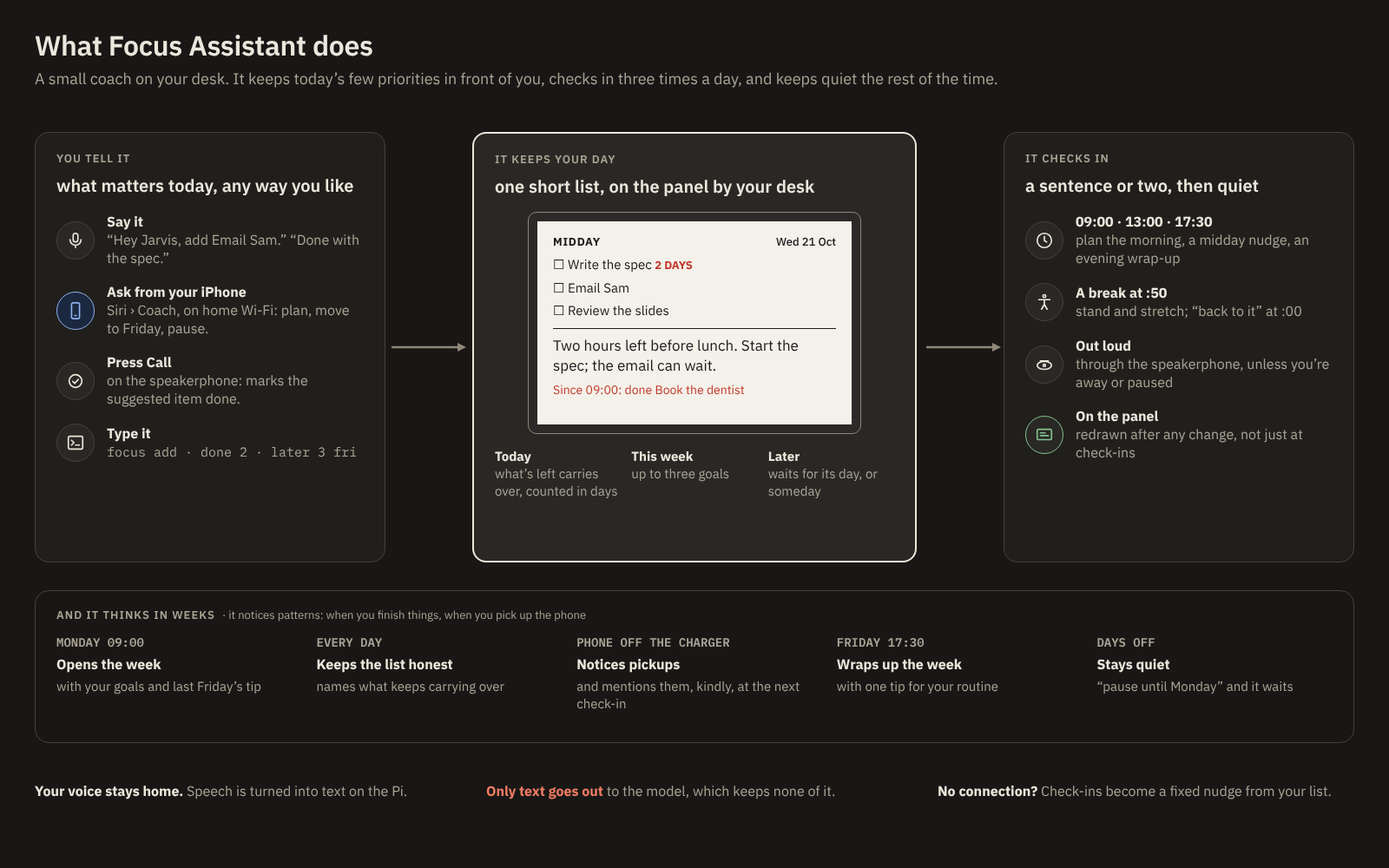
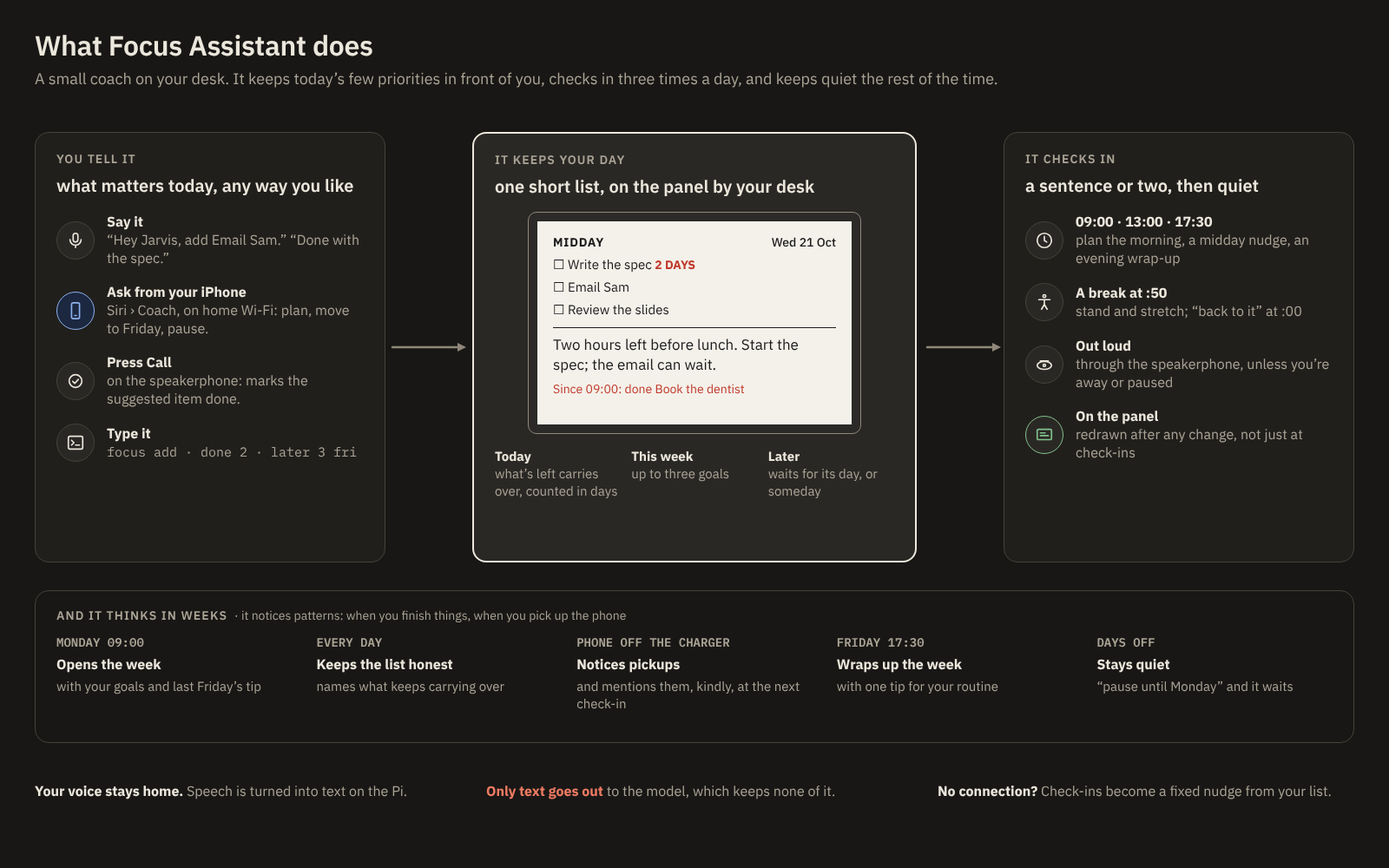
Raise the diagrams' smallest text to 14 px
Chips, captions and small labels were 12-13 px; all text is now at least
14 px. Chip letter-spacing is tighter so they keep their width.

Claude-Session: https://claude.ai/code/session_012JGky2b5gRaRkVCuL4X8Ex

diff --git a/docs/diagrams/workflow.html b/docs/diagrams/workflow.html
@@ -15,11 +15,11 @@ a{color:#1f4f9c}a:hover{color:#191815}
 @media (prefers-color-scheme: dark){.t-auto{--bg:#181715;--panel:#211f1c;--card:#2a2825;--ink:#ece7dc;--muted:#aba496;--line:#8f887b;--border:#46423b;--host:#ee7b63;--host-bg:#3a221c;--host-line:#e0634c;--phone:#8db2ec;--phone-bg:#1c2740;--chip:#ece7dc;--chip-ink:#181715;--focus:rgba(255,250,240,0.05);--nokey:#82c28d;--boundary:#d8b13c;--night:rgba(0,0,0,0.3)}}
 .mono{font-family:'IBM Plex Mono',ui-monospace,monospace}
 .s{color:var(--muted)}
-.kb{display:inline-block;font:600 12px/18px 'IBM Plex Mono',ui-monospace,monospace;letter-spacing:.05em;padding:0 6px;border-radius:4px;border:1px solid var(--border);color:var(--muted)}
+.kb{display:inline-block;font:600 14px/18px 'IBM Plex Mono',ui-monospace,monospace;letter-spacing:.02em;padding:0 6px;border-radius:4px;border:1px solid var(--border);color:var(--muted)}
 .kb.no{background:var(--chip);color:var(--chip-ink);border-color:var(--chip)}
 .kb.host{border-color:var(--host-line);color:var(--host)}
-.cap{font-size:12px;line-height:16px;font-weight:600;letter-spacing:.08em;color:var(--muted)}
-.tick{position:absolute;top:128px;width:48px;text-align:center;font:500 13px/18px 'IBM Plex Mono',ui-monospace,monospace;color:var(--muted)}
+.cap{font-size: 14px;line-height:16px;font-weight:600;letter-spacing:.08em;color:var(--muted)}
+.tick{position:absolute;top:128px;width:48px;text-align:center;font:500 14px/18px 'IBM Plex Mono',ui-monospace,monospace;color:var(--muted)}
 .pb{display:inline-flex;align-items:center;justify-content:center;width:24px;height:20px;border-radius:5px;background:var(--nokey);color:var(--bg)}
 </style>
 <div class="t-auto" style="position: relative; width: 1600px; height: 1000px; overflow: hidden; background: var(--bg); color: var(--ink); font-family: 'IBM Plex Sans', system-ui, sans-serif">
@@ -71,7 +71,7 @@ a{color:#1f4f9c}a:hover{color:#191815}
 <span style="display: inline-flex; align-items: center; gap: 6px"><span style="display: inline-block; width: 18px; height: 14px; border-radius: 3px; background: var(--focus); border: 1px solid var(--border)"></span>focus block</span>
 <span style="display: inline-flex; align-items: center; gap: 6px"><span style="display: inline-block; width: 14px; height: 14px; border-radius: 3px; background: var(--host-bg); border: 1.5px solid var(--host-line)"></span>model host</span>
 <span style="display: inline-flex; align-items: center; gap: 6px"><span style="display: inline-block; width: 14px; height: 14px; border-radius: 3px; background: var(--phone-bg); border: 1.5px solid var(--phone)"></span>phone</span>
-<span style="display: inline-flex; align-items: center; gap: 6px"><span style="display: inline-block; padding: 0 8px; border-radius: 10px; border: 1.5px solid var(--border); background: var(--card); color: var(--ink); font-size: 13px">stretch</span>:50 reminder: coach line, or a fixed phrase after 5 s. Stretch and spoken check-ins wait while you’re away or paused</span>
+<span style="display: inline-flex; align-items: center; gap: 6px"><span style="display: inline-block; padding: 0 8px; border-radius: 10px; border: 1.5px solid var(--border); background: var(--card); color: var(--ink); font-size: 14px">stretch</span>:50 reminder: coach line, or a fixed phrase after 5 s. Stretch and spoken check-ins wait while you’re away or paused</span>
 </div>
 <!-- the e-ink panel redraws after these -->
 <div class="pb" style="position: absolute; left: 296px; top: 318px"><svg width="14" height="14" viewBox="0 0 24 24" fill="none" stroke="currentColor" stroke-width="2.2" stroke-linecap="round" stroke-linejoin="round" aria-hidden="true"><rect x="3" y="5" width="18" height="13" rx="1.5"></rect><path d="M7 9.5h6M7 13h10"></path></svg></div>
@@ -110,28 +110,28 @@ a{color:#1f4f9c}a:hover{color:#191815}
 <div style="position: absolute; left: 1348px; top: 244px; width: 104px; height: 44px; box-sizing: border-box; display: flex; align-items: center; padding: 4px 10px; background: var(--card); border: 1.5px solid var(--border); border-radius: 10px; font-size: 14px; line-height: 17px"><span>hears the wrap-up</span></div>
 
 <!-- Pi lane -->
-<div style="position: absolute; left: 160px; top: 328px; width: 152px; height: 100px; box-sizing: border-box; display: flex; align-items: center; padding: 6px 10px; background: var(--card); border: 1.5px solid var(--border); border-radius: 10px; font-size: 13px; line-height: 17px"><span><b style="font-size: 14px">00:00 rollover</b><br><span class="s">unfinished priorities carry over (+1 day); yesterday goes to history</span></span></div>
+<div style="position: absolute; left: 160px; top: 328px; width: 152px; height: 100px; box-sizing: border-box; display: flex; align-items: center; padding: 6px 10px; background: var(--card); border: 1.5px solid var(--border); border-radius: 10px; font-size: 14px; line-height: 17px"><span><b style="font-size: 14px">00:00 rollover</b><br><span class="s">unfinished priorities carry over (+1 day); yesterday goes to history</span></span></div>
 <div style="position: absolute; left: 328px; top: 328px; width: 104px; height: 56px; box-sizing: border-box; display: flex; align-items: center; padding: 4px 10px; background: var(--card); border: 1.5px solid var(--border); border-radius: 10px; font-size: 15px; line-height: 19px"><span><b>09:00</b><br>check-in</span></div>
 <div style="position: absolute; left: 488px; top: 328px; width: 104px; height: 56px; box-sizing: border-box; display: flex; align-items: center; padding: 4px 10px; background: var(--card); border: 1.5px solid var(--border); border-radius: 10px; font-size: 14px; line-height: 18px"><span><b>10:20 voice</b><br><span class="s">transcribes</span></span></div>
 <div style="position: absolute; left: 808px; top: 328px; width: 104px; height: 56px; box-sizing: border-box; display: flex; align-items: center; padding: 4px 10px; background: var(--card); border: 1.5px solid var(--border); border-radius: 10px; font-size: 15px; line-height: 19px"><span><b>13:00</b><br>check-in</span></div>
 <div style="position: absolute; left: 968px; top: 328px; width: 104px; height: 56px; box-sizing: border-box; display: flex; align-items: center; padding: 4px 10px; background: var(--card); border: 1.5px solid var(--border); border-radius: 10px; font-size: 14px; line-height: 18px"><span><b>14:20 chat</b><br><span class="s">tool: add</span></span></div>
 <div style="position: absolute; left: 1143px; top: 328px; width: 104px; height: 56px; box-sizing: border-box; display: flex; align-items: center; padding: 4px 10px; background: var(--card); border: 1.5px solid var(--border); border-radius: 10px; font-size: 14px; line-height: 18px"><span><b>dock</b><br><span class="s">logs it</span></span></div>
 <div style="position: absolute; left: 1348px; top: 328px; width: 104px; height: 56px; box-sizing: border-box; display: flex; align-items: center; padding: 4px 10px; background: var(--card); border: 1.5px solid var(--border); border-radius: 10px; font-size: 15px; line-height: 19px"><span><b>17:30</b><br>check-in</span></div>
-<div style="position: absolute; left: 1468px; top: 328px; width: 100px; height: 144px; box-sizing: border-box; display: flex; align-items: center; padding: 6px 8px; background: var(--card); border: 1.5px solid var(--border); border-radius: 10px; font-size: 13px; line-height: 17px"><span><b style="font-size: 14px">18:00 backup</b><br><span class="s">desktop PC copies state.json (SSH, read-only key)</span></span></div>
-<div style="position: absolute; left: 452px; top: 400px; width: 56px; height: 28px; box-sizing: border-box; display: flex; align-items: center; justify-content: center; background: var(--card); border: 1.5px solid var(--border); border-radius: 14px; font-size: 13px; line-height: 16px">stretch</div>
-<div style="position: absolute; left: 572px; top: 400px; width: 56px; height: 28px; box-sizing: border-box; display: flex; align-items: center; justify-content: center; background: var(--card); border: 1.5px solid var(--border); border-radius: 14px; font-size: 13px; line-height: 16px">stretch</div>
-<div style="position: absolute; left: 692px; top: 400px; width: 56px; height: 28px; box-sizing: border-box; display: flex; align-items: center; justify-content: center; background: var(--card); border: 1.5px solid var(--border); border-radius: 14px; font-size: 13px; line-height: 16px">stretch</div>
-<div style="position: absolute; left: 932px; top: 400px; width: 56px; height: 28px; box-sizing: border-box; display: flex; align-items: center; justify-content: center; background: var(--card); border: 1.5px solid var(--border); border-radius: 14px; font-size: 13px; line-height: 16px">stretch</div>
-<div style="position: absolute; left: 1052px; top: 400px; width: 56px; height: 28px; box-sizing: border-box; display: flex; align-items: center; justify-content: center; background: var(--card); border: 1.5px solid var(--border); border-radius: 14px; font-size: 13px; line-height: 16px">stretch</div>
-<div style="position: absolute; left: 1172px; top: 400px; width: 56px; height: 28px; box-sizing: border-box; display: flex; align-items: center; justify-content: center; background: var(--card); border: 1.5px solid var(--border); border-radius: 14px; font-size: 13px; line-height: 16px">stretch</div>
-<div style="position: absolute; left: 1292px; top: 400px; width: 56px; height: 28px; box-sizing: border-box; display: flex; align-items: center; justify-content: center; background: var(--card); border: 1.5px solid var(--border); border-radius: 14px; font-size: 13px; line-height: 16px">stretch</div>
+<div style="position: absolute; left: 1468px; top: 328px; width: 100px; height: 144px; box-sizing: border-box; display: flex; align-items: center; padding: 6px 8px; background: var(--card); border: 1.5px solid var(--border); border-radius: 10px; font-size: 14px; line-height: 17px"><span><b style="font-size: 14px">18:00 backup</b><br><span class="s">desktop PC copies state.json (SSH, read-only key)</span></span></div>
+<div style="position: absolute; left: 452px; top: 400px; width: 56px; height: 28px; box-sizing: border-box; display: flex; align-items: center; justify-content: center; background: var(--card); border: 1.5px solid var(--border); border-radius: 14px; font-size: 14px; line-height: 16px">stretch</div>
+<div style="position: absolute; left: 572px; top: 400px; width: 56px; height: 28px; box-sizing: border-box; display: flex; align-items: center; justify-content: center; background: var(--card); border: 1.5px solid var(--border); border-radius: 14px; font-size: 14px; line-height: 16px">stretch</div>
+<div style="position: absolute; left: 692px; top: 400px; width: 56px; height: 28px; box-sizing: border-box; display: flex; align-items: center; justify-content: center; background: var(--card); border: 1.5px solid var(--border); border-radius: 14px; font-size: 14px; line-height: 16px">stretch</div>
+<div style="position: absolute; left: 932px; top: 400px; width: 56px; height: 28px; box-sizing: border-box; display: flex; align-items: center; justify-content: center; background: var(--card); border: 1.5px solid var(--border); border-radius: 14px; font-size: 14px; line-height: 16px">stretch</div>
+<div style="position: absolute; left: 1052px; top: 400px; width: 56px; height: 28px; box-sizing: border-box; display: flex; align-items: center; justify-content: center; background: var(--card); border: 1.5px solid var(--border); border-radius: 14px; font-size: 14px; line-height: 16px">stretch</div>
+<div style="position: absolute; left: 1172px; top: 400px; width: 56px; height: 28px; box-sizing: border-box; display: flex; align-items: center; justify-content: center; background: var(--card); border: 1.5px solid var(--border); border-radius: 14px; font-size: 14px; line-height: 16px">stretch</div>
+<div style="position: absolute; left: 1292px; top: 400px; width: 56px; height: 28px; box-sizing: border-box; display: flex; align-items: center; justify-content: center; background: var(--card); border: 1.5px solid var(--border); border-radius: 14px; font-size: 14px; line-height: 16px">stretch</div>
 
 <!-- Model lane -->
-<div style="position: absolute; left: 312px; top: 512px; width: 136px; height: 56px; box-sizing: border-box; display: flex; align-items: center; padding: 4px 10px; background: var(--card); border: 1.5px solid var(--host-line); border-radius: 10px; font-size: 13px; line-height: 16px; color: var(--host)"><span>morning nudge; on Mondays it opens the week</span></div>
+<div style="position: absolute; left: 312px; top: 512px; width: 136px; height: 56px; box-sizing: border-box; display: flex; align-items: center; padding: 4px 10px; background: var(--card); border: 1.5px solid var(--host-line); border-radius: 10px; font-size: 14px; line-height: 16px; color: var(--host)"><span>morning nudge; on Mondays it opens the week</span></div>
 <div style="position: absolute; left: 488px; top: 512px; width: 104px; height: 56px; box-sizing: border-box; display: flex; align-items: center; padding: 4px 10px; background: var(--card); border: 1.5px solid var(--host-line); border-radius: 10px; font-size: 14px; line-height: 17px; color: var(--host)"><span>one-sentence reply</span></div>
 <div style="position: absolute; left: 808px; top: 512px; width: 104px; height: 56px; box-sizing: border-box; display: flex; align-items: center; padding: 4px 10px; background: var(--card); border: 1.5px solid var(--host-line); border-radius: 10px; font-size: 14px; line-height: 17px; color: var(--host)"><span>writes the midday nudge</span></div>
 <div style="position: absolute; left: 968px; top: 512px; width: 104px; height: 56px; box-sizing: border-box; display: flex; align-items: center; padding: 4px 10px; background: var(--card); border: 1.5px solid var(--host-line); border-radius: 10px; font-size: 14px; line-height: 17px; color: var(--host)"><span>tool call + reply</span></div>
-<div style="position: absolute; left: 1332px; top: 512px; width: 136px; height: 56px; box-sizing: border-box; display: flex; align-items: center; padding: 4px 10px; background: var(--card); border: 1.5px solid var(--host-line); border-radius: 10px; font-size: 13px; line-height: 16px; color: var(--host)"><span>evening nudge; Fridays: wrap-up and a routine tip</span></div>
+<div style="position: absolute; left: 1332px; top: 512px; width: 136px; height: 56px; box-sizing: border-box; display: flex; align-items: center; padding: 4px 10px; background: var(--card); border: 1.5px solid var(--host-line); border-radius: 10px; font-size: 14px; line-height: 16px; color: var(--host)"><span>evening nudge; Fridays: wrap-up and a routine tip</span></div>
 
 <!-- timeline labels -->
 <div style="position: absolute; left: 392px; top: 292px; width: 112px; font-size: 16px; line-height: 18px; color: var(--muted)">spoken (Piper)</div>

diff --git a/docs/diagrams/workflow-simple.html b/docs/diagrams/workflow-simple.html
@@ -14,9 +14,9 @@ a{color:#1f4f9c}a:hover{color:#191815}
 .t-dark{--bg:#181715;--panel:#211f1c;--card:#2a2825;--ink:#ece7dc;--muted:#aba496;--line:#8f887b;--border:#46423b;--host:#ee7b63;--host-bg:#3a221c;--host-line:#e0634c;--phone:#8db2ec;--phone-bg:#1c2740;--chip:#ece7dc;--chip-ink:#181715;--focus:rgba(255,250,240,0.05);--night:rgba(0,0,0,0.3);--nokey:#82c28d;--boundary:#d8b13c}
 @media (prefers-color-scheme: dark){.t-auto{--bg:#181715;--panel:#211f1c;--card:#2a2825;--ink:#ece7dc;--muted:#aba496;--line:#8f887b;--border:#46423b;--host:#ee7b63;--host-bg:#3a221c;--host-line:#e0634c;--phone:#8db2ec;--phone-bg:#1c2740;--chip:#ece7dc;--chip-ink:#181715;--focus:rgba(255,250,240,0.05);--night:rgba(0,0,0,0.3);--nokey:#82c28d;--boundary:#d8b13c}}
 .s{color:var(--muted)}
-.kb{display:inline-block;font:600 12px/18px 'IBM Plex Mono',ui-monospace,monospace;letter-spacing:.05em;padding:1px 7px;border-radius:5px;border:1px solid var(--border);color:var(--muted)}
+.kb{display:inline-block;font:600 14px/18px 'IBM Plex Mono',ui-monospace,monospace;letter-spacing:.02em;padding:1px 7px;border-radius:5px;border:1px solid var(--border);color:var(--muted)}
 .kb.no{background:var(--chip);color:var(--chip-ink);border-color:var(--chip)}
-.tick{position:absolute;top:150px;width:48px;text-align:center;font:500 13px/18px 'IBM Plex Mono',ui-monospace,monospace;color:var(--muted)}
+.tick{position:absolute;top:150px;width:48px;text-align:center;font:500 14px/18px 'IBM Plex Mono',ui-monospace,monospace;color:var(--muted)}
 .lbl{position:absolute;font-size:15px;line-height:20px}
 .pb{display:inline-flex;align-items:center;justify-content:center;width:24px;height:20px;border-radius:5px;background:var(--nokey);color:var(--bg)}
 </style>
@@ -138,7 +138,7 @@ a{color:#1f4f9c}a:hover{color:#191815}
 <svg width="8" height="59" viewBox="0 0 8 59" preserveAspectRatio="none" style="position: absolute; left: 656px; top: 256px; width: 8px; height: 59px; overflow: visible; fill: none; stroke: var(--line); stroke-width: 2.5; stroke-linecap: round; stroke-linejoin: round"><defs><marker id="dc-arrow-head-filled-30" orient="auto" markerWidth="5" markerHeight="5" refX="2" refY="2" overflow="visible"><path d="M0 0 L4 2 L0 4 Z" fill="#847d70" stroke="none" style="stroke: none; fill: #847d70; fill: context-stroke"/></marker></defs><path d="M 4 0 L 4 54" marker-end="url(#dc-arrow-head-filled-30)"></path></svg>
 <div class="lbl" style="left: 692px; top: 222px">“quiet till 12”</div>
 <div class="lbl" style="left: 692px; top: 330px; font-weight: 600">paused</div>
-<div class="lbl" style="left: 702px; top: 372px; font-size: 13px; color: var(--muted)">skipped</div>
+<div class="lbl" style="left: 702px; top: 372px; font-size: 14px; color: var(--muted)">skipped</div>
 
 <!-- Model lane -->
 <div style="position: absolute; left: 376px; top: 456px; width: 48px; height: 48px; box-sizing: border-box; display: flex; align-items: center; justify-content: center; background: var(--card); border: 1.5px solid var(--host-line); border-radius: 50%; color: var(--host)"><svg width="24" height="24" viewBox="0 0 24 24" fill="none" stroke="currentColor" stroke-width="1.8" stroke-linecap="round" stroke-linejoin="round" aria-hidden="true"><path d="M7 18h10a4 4 0 0 0 .5-7.97A6 6 0 0 0 6.1 9.2 4.5 4.5 0 0 0 7 18z"></path></svg></div>
@@ -178,9 +178,9 @@ a{color:#1f4f9c}a:hover{color:#191815}
 <div class="lbl" style="left: 328px; top: 748px; width: 128px; text-align: center">speech to text</div>
 <div class="lbl" style="left: 472px; top: 748px; width: 128px; text-align: center; color: var(--host)">coach writes a reply</div>
 <div class="lbl" style="left: 616px; top: 748px; width: 128px; text-align: center">Piper speaks it</div>
-<div style="position: absolute; left: 72px; top: 812px; width: 352px; height: 28px; box-sizing: border-box; display: flex; align-items: center; justify-content: center; border-radius: 6px; background: var(--chip); color: var(--chip-ink); font: 600 13px/16px 'IBM Plex Mono', monospace; letter-spacing: .05em">AUDIO, ON THE PI</div>
-<div style="position: absolute; left: 492px; top: 812px; width: 88px; height: 28px; box-sizing: border-box; display: flex; align-items: center; justify-content: center; border-radius: 6px; border: 1.5px solid var(--host-line); color: var(--host); font: 600 13px/16px 'IBM Plex Mono', monospace; letter-spacing: .05em">TEXT</div>
-<div style="position: absolute; left: 636px; top: 812px; width: 88px; height: 28px; box-sizing: border-box; display: flex; align-items: center; justify-content: center; border-radius: 6px; background: var(--chip); color: var(--chip-ink); font: 600 13px/16px 'IBM Plex Mono', monospace; letter-spacing: .05em">AUDIO</div>
+<div style="position: absolute; left: 72px; top: 812px; width: 352px; height: 28px; box-sizing: border-box; display: flex; align-items: center; justify-content: center; border-radius: 6px; background: var(--chip); color: var(--chip-ink); font: 600 14px/16px 'IBM Plex Mono', monospace; letter-spacing: .05em">AUDIO, ON THE PI</div>
+<div style="position: absolute; left: 492px; top: 812px; width: 88px; height: 28px; box-sizing: border-box; display: flex; align-items: center; justify-content: center; border-radius: 6px; border: 1.5px solid var(--host-line); color: var(--host); font: 600 14px/16px 'IBM Plex Mono', monospace; letter-spacing: .05em">TEXT</div>
+<div style="position: absolute; left: 636px; top: 812px; width: 88px; height: 28px; box-sizing: border-box; display: flex; align-items: center; justify-content: center; border-radius: 6px; background: var(--chip); color: var(--chip-ink); font: 600 14px/16px 'IBM Plex Mono', monospace; letter-spacing: .05em">AUDIO</div>
 <div style="position: absolute; left: 48px; top: 868px; width: 704px; font-size: 16px; line-height: 22px; color: var(--muted)">About 3 seconds from your last word to the reply. Then 5 seconds to follow up without the wake word.</div>
 
 <!-- inset: offline fallback -->

diff --git a/docs/diagrams/architecture.html b/docs/diagrams/architecture.html
@@ -16,13 +16,13 @@ a{color:#1f4f9c}a:hover{color:#191815}
 .mono{font-family:'IBM Plex Mono',ui-monospace,monospace}
 .t{font-family:'IBM Plex Mono',ui-monospace,monospace;font-size:16px;font-weight:600}
 .s{color:var(--muted)}
-.kb{display:inline-block;font:600 12px/18px 'IBM Plex Mono',ui-monospace,monospace;letter-spacing:.05em;padding:0 6px;border-radius:4px;border:1px solid var(--border);color:var(--muted);margin-left:6px;vertical-align:2px}
+.kb{display:inline-block;font:600 14px/18px 'IBM Plex Mono',ui-monospace,monospace;letter-spacing:.02em;padding:0 6px;border-radius:4px;border:1px solid var(--border);color:var(--muted);margin-left:6px;vertical-align:2px}
 .kb.no{background:var(--chip);color:var(--chip-ink);border-color:var(--chip)}
 .kb.host{border-color:var(--host-line);color:var(--host)}
 .kb.nk{background:var(--nokey);color:var(--bg);border-color:var(--nokey)}
 .tm{display:grid;grid-template-columns:136px 72px 1fr;align-items:center;row-gap:2px}
 .tm .kb{margin-left:0;justify-self:start}
-.cap{font-size:13px;line-height:16px;font-weight:600;letter-spacing:.08em;color:var(--muted)}
+.cap{font-size: 14px;line-height:16px;font-weight:600;letter-spacing:.08em;color:var(--muted)}
 .cap span{font-weight:400;letter-spacing:0}
 </style>
 <div class="t-auto" style="position: relative; width: 1600px; height: 1000px; overflow: hidden; background: var(--bg); color: var(--ink); font-family: 'IBM Plex Sans', system-ui, sans-serif">
@@ -87,7 +87,7 @@ a{color:#1f4f9c}a:hover{color:#191815}
 <div style="position: absolute; left: 448px; top: 880px; width: 424px; height: 88px; box-sizing: border-box; display: flex; align-items: center; gap: 10px; padding: 8px 14px; background: var(--card); border: 1.5px solid var(--border); border-radius: 10px; font-size: 15px; line-height: 20px"><svg width="22" height="22" viewBox="0 0 24 24" fill="none" stroke="currentColor" stroke-width="1.8" stroke-linecap="round" stroke-linejoin="round" aria-hidden="true"><ellipse cx="12" cy="13" rx="9" ry="5"></ellipse><circle cx="12" cy="13" r="1.5"></circle><path d="M7 7.5h10"></path></svg><span><b style="font-size: 16px">Anker PowerConf speakerphone</b><br><span class="s">mic, speaker, Play / Call / Mute; a powered USB hub</span></span></div>
 <div style="position: absolute; left: 888px; top: 880px; width: 280px; height: 88px; box-sizing: border-box; display: flex; align-items: center; gap: 10px; padding: 8px 12px; background: var(--card); border: 1.5px solid var(--border); border-radius: 10px; font-size: 14px; line-height: 18px"><svg width="22" height="22" viewBox="0 0 24 24" fill="none" stroke="currentColor" stroke-width="1.8" stroke-linecap="round" stroke-linejoin="round" aria-hidden="true" style="flex: none"><rect x="3" y="5" width="18" height="13" rx="1.5"></rect><path d="M7 9.5h6M7 13h10"></path></svg><span><b style="font-size: 15px">E-ink panel</b><br><span class="s">Inky Impression 4.0″ Spectra 6, 600×400, on a ribbon and a Mini Black HAT Hack3r</span></span></div>
 
-<div style="position: absolute; left: 1360px; top: 400px; width: 200px; height: 216px; box-sizing: border-box; display: flex; flex-direction: column; align-items: flex-start; justify-content: center; gap: 6px; padding: 12px 14px; background: var(--host-bg); border: 2px solid var(--host-line); border-radius: 14px; font-size: 15px; line-height: 20px; color: var(--host)"><svg width="24" height="24" viewBox="0 0 24 24" fill="none" stroke="currentColor" stroke-width="1.8" stroke-linecap="round" stroke-linejoin="round" aria-hidden="true"><path d="M7 18h10a4 4 0 0 0 .5-7.97A6 6 0 0 0 6.1 9.2 4.5 4.5 0 0 0 7 18z"></path></svg><span><b style="font-size: 18px">Groq</b><br><span class="mono" style="color: var(--ink); font-size: 14px">openai/gpt-oss-120b</span><br><span style="color: var(--ink)">OpenAI-compatible API</span><br><span class="kb host" style="margin-left: 0">ZERO DATA RETENTION</span><br><span style="color: var(--ink)">gets text, never audio</span></span></div>
+<div style="position: absolute; left: 1360px; top: 400px; width: 200px; height: 216px; box-sizing: border-box; display: flex; flex-direction: column; align-items: flex-start; justify-content: center; gap: 6px; padding: 12px 10px; background: var(--host-bg); border: 2px solid var(--host-line); border-radius: 14px; font-size: 15px; line-height: 20px; color: var(--host)"><svg width="24" height="24" viewBox="0 0 24 24" fill="none" stroke="currentColor" stroke-width="1.8" stroke-linecap="round" stroke-linejoin="round" aria-hidden="true"><path d="M7 18h10a4 4 0 0 0 .5-7.97A6 6 0 0 0 6.1 9.2 4.5 4.5 0 0 0 7 18z"></path></svg><span><b style="font-size: 18px">Groq</b><br><span class="mono" style="color: var(--ink); font-size: 14px">openai/gpt-oss-120b</span><br><span style="color: var(--ink)">OpenAI-compatible API</span><br><span class="kb host" style="margin-left: 0; letter-spacing: 0; padding: 0 4px; white-space: nowrap">ZERO DATA RETENTION</span><br><span style="color: var(--ink)">gets text, never audio</span></span></div>
 
 <div style="position: absolute; left: 1272px; top: 664px; width: 288px; height: 240px; box-sizing: border-box; padding: 14px 16px; border-radius: 12px; background: var(--card); border: 1.5px solid var(--host-line); font-size: 15px; line-height: 21px"><div style="font-weight: 600; font-size: 16px; margin-bottom: 6px; color: var(--host)">What leaves the house</div><div>Text only: priorities, week goals, today’s check-ins, events and chat, voice transcripts, and recent daily summaries.</div><div style="margin-top: 8px; color: var(--muted)">Never audio. Only coach.py calls out, on behalf of chat, voice, check-in and stretch.</div></div>
 

diff --git a/docs/diagrams/week-simple.html b/docs/diagrams/week-simple.html
@@ -14,7 +14,7 @@ a{color:#1f4f9c}a:hover{color:#191815}
 .t-dark{--bg:#181715;--panel:#211f1c;--card:#2a2825;--ink:#ece7dc;--muted:#aba496;--line:#8f887b;--border:#46423b;--host:#ee7b63;--host-bg:#3a221c;--host-line:#e0634c;--phone:#8db2ec;--phone-bg:#1c2740;--chip:#ece7dc;--chip-ink:#181715;--nokey:#82c28d;--boundary:#d8b13c;--focus:rgba(255,250,240,0.05);--night:rgba(0,0,0,0.3)}
 @media (prefers-color-scheme: dark){.t-auto{--bg:#181715;--panel:#211f1c;--card:#2a2825;--ink:#ece7dc;--muted:#aba496;--line:#8f887b;--border:#46423b;--host:#ee7b63;--host-bg:#3a221c;--host-line:#e0634c;--phone:#8db2ec;--phone-bg:#1c2740;--chip:#ece7dc;--chip-ink:#181715;--nokey:#82c28d;--boundary:#d8b13c;--focus:rgba(255,250,240,0.05);--night:rgba(0,0,0,0.3)}}
 .s{color:var(--muted)}
-.kb{display:inline-block;font:600 12px/18px 'IBM Plex Mono',ui-monospace,monospace;letter-spacing:.05em;padding:1px 7px;border-radius:5px;border:1px solid var(--border);color:var(--muted)}
+.kb{display:inline-block;font:600 14px/18px 'IBM Plex Mono',ui-monospace,monospace;letter-spacing:.02em;padding:1px 7px;border-radius:5px;border:1px solid var(--border);color:var(--muted)}
 .kb.no{background:var(--chip);color:var(--chip-ink);border-color:var(--chip)}
 .kb.host{border-color:var(--host-line);color:var(--host)}
 .day{position:absolute;top:176px;width:200px;height:330px;box-sizing:border-box;padding:18px 16px;display:flex;flex-direction:column;gap:14px;border-radius:16px;background:var(--card);border:1.5px solid var(--border)}
@@ -82,7 +82,7 @@ a{color:#1f4f9c}a:hover{color:#191815}
 
 <!-- where the tip comes from -->
 <div style="position: absolute; left: 72px; top: 716px; font-size: 22px; line-height: 28px; font-weight: 600">Where the routine tip comes from</div>
-<div style="position: absolute; left: 80px; top: 768px; font-size: 13px; line-height: 16px; font-weight: 600; letter-spacing: .08em; color: var(--muted)">EACH DAY’S SUMMARY KEEPS</div>
+<div style="position: absolute; left: 80px; top: 768px; font-size: 14px; line-height: 16px; font-weight: 600; letter-spacing: .08em; color: var(--muted)">EACH DAY’S SUMMARY KEEPS</div>
 <div class="in" style="left: 80px; top: 790px; height: 100px"><svg width="28" height="28" viewBox="0 0 24 24" fill="none" stroke="currentColor" stroke-width="1.7" stroke-linecap="round" stroke-linejoin="round" aria-hidden="true"><circle cx="12" cy="12" r="9"></circle><path d="M12 7v5l3 2"></path></svg><span>When check-ins ran</span></div>
 <div class="in" style="left: 292px; top: 790px; height: 100px"><svg width="28" height="28" viewBox="0 0 24 24" fill="none" stroke="currentColor" stroke-width="1.7" stroke-linecap="round" stroke-linejoin="round" aria-hidden="true"><circle cx="12" cy="12" r="9"></circle><path d="M8 12l3 3 5-6"></path></svg><span>When things got done</span></div>
 <div class="in" style="left: 504px; top: 790px; height: 100px"><svg width="28" height="28" viewBox="0 0 24 24" fill="none" stroke="currentColor" stroke-width="1.7" stroke-linecap="round" stroke-linejoin="round" aria-hidden="true"><rect x="7" y="2" width="10" height="20" rx="2"></rect><path d="M11 18h2"></path></svg><span>Phone pickups by hour</span></div>

diff --git a/docs/diagrams/what-it-does.html b/docs/diagrams/what-it-does.html
@@ -16,7 +16,7 @@ a{color:#1f4f9c}a:hover{color:#191815}
 .s{color:var(--muted)}
 .nk{color:var(--nokey);font-weight:600}
 .box{position:absolute;box-sizing:border-box;border-radius:16px}
-.h{display:flex;align-items:center;gap:8px;font-size:13px;line-height:16px;font-weight:600;letter-spacing:.08em;color:var(--muted)}
+.h{display:flex;align-items:center;gap:8px;font-size: 14px;line-height:16px;font-weight:600;letter-spacing:.08em;color:var(--muted)}
 .row{display:flex;align-items:center;gap:14px;font-size:16px;line-height:21px}
 .ic{flex:none;width:44px;height:44px;box-sizing:border-box;display:flex;align-items:center;justify-content:center;border-radius:50%;background:var(--card);border:1.5px solid var(--border)}
 .ic.ph{background:var(--phone-bg);border-color:var(--phone);color:var(--phone)}
@@ -58,8 +58,8 @@ a{color:#1f4f9c}a:hover{color:#191815}
 <!-- the panel, as it looks -->
 <div style="align-self: center; width: 384px; height: 256px; box-sizing: border-box; padding: 10px; border-radius: 10px; background: #2b2a28; border: 1.5px solid var(--line)">
 <div class="ink" style="width: 100%; height: 100%; box-sizing: border-box; padding: 14px 18px; display: flex; flex-direction: column; gap: 6px; font-size: 15px; line-height: 20px">
-<div style="display: flex; justify-content: space-between; font-weight: 700; letter-spacing: .06em; font-size: 13px"><span>MIDDAY</span><span style="font-weight: 500; letter-spacing: 0">Wed 21 Oct</span></div>
-<div>☐ Write the spec <b style="color: #c0392b; font-size: 13px">2 DAYS</b></div>
+<div style="display: flex; justify-content: space-between; font-weight: 700; letter-spacing: .06em; font-size: 14px"><span>MIDDAY</span><span style="font-weight: 500; letter-spacing: 0">Wed 21 Oct</span></div>
+<div>☐ Write the spec <b style="color: #c0392b; font-size: 14px">2 DAYS</b></div>
 <div>☐ Email Sam</div>
 <div>☐ Review the slides</div>
 <div style="border-top: 1.5px solid #1b1b1b; margin-top: 4px; padding-top: 8px; font-size: 17px; line-height: 23px">Two hours left before lunch. Start the spec; the email can wait.</div>

diff --git a/docs/diagrams/feedback-simple.html b/docs/diagrams/feedback-simple.html
@@ -14,7 +14,7 @@ a{color:#1f4f9c}a:hover{color:#191815}
 .t-dark{--bg:#181715;--panel:#211f1c;--card:#2a2825;--ink:#ece7dc;--muted:#aba496;--line:#8f887b;--border:#46423b;--host:#ee7b63;--host-bg:#3a221c;--host-line:#e0634c;--phone:#8db2ec;--phone-bg:#1c2740;--chip:#ece7dc;--chip-ink:#181715;--nokey:#82c28d;--boundary:#d8b13c;--focus:rgba(255,250,240,0.05);--night:rgba(0,0,0,0.3)}
 @media (prefers-color-scheme: dark){.t-auto{--bg:#181715;--panel:#211f1c;--card:#2a2825;--ink:#ece7dc;--muted:#aba496;--line:#8f887b;--border:#46423b;--host:#ee7b63;--host-bg:#3a221c;--host-line:#e0634c;--phone:#8db2ec;--phone-bg:#1c2740;--chip:#ece7dc;--chip-ink:#181715;--nokey:#82c28d;--boundary:#d8b13c;--focus:rgba(255,250,240,0.05);--night:rgba(0,0,0,0.3)}}
 .s{color:var(--muted)}
-.kb{display:inline-block;font:600 12px/18px 'IBM Plex Mono',ui-monospace,monospace;letter-spacing:.05em;padding:1px 7px;border-radius:5px;border:1px solid var(--border);color:var(--muted)}
+.kb{display:inline-block;font:600 14px/18px 'IBM Plex Mono',ui-monospace,monospace;letter-spacing:.02em;padding:1px 7px;border-radius:5px;border:1px solid var(--border);color:var(--muted)}
 .kb.no{background:var(--chip);color:var(--chip-ink);border-color:var(--chip)}
 .kb.host{border-color:var(--host-line);color:var(--host)}
 </style>

diff --git a/docs/diagrams/architecture-simple.html b/docs/diagrams/architecture-simple.html
@@ -16,9 +16,9 @@ a{color:#1f4f9c}a:hover{color:#191815}
 .s{color:var(--muted)}
 .nk{color:var(--nokey);font-weight:600}
 .u{font:14px/19px 'IBM Plex Mono',ui-monospace,monospace;color:var(--muted)}
-.kb{display:inline-flex;align-items:center;gap:4px;font:600 12px/18px 'IBM Plex Mono',ui-monospace,monospace;letter-spacing:.05em;padding:1px 7px;border-radius:5px;border:1px solid var(--border);color:var(--muted)}
+.kb{display:inline-flex;align-items:center;gap:4px;font:600 14px/18px 'IBM Plex Mono',ui-monospace,monospace;letter-spacing:.02em;padding:1px 7px;border-radius:5px;border:1px solid var(--border);color:var(--muted)}
 .kb.no{background:var(--chip);color:var(--chip-ink);border-color:var(--chip)}
-.cap{display:flex;align-items:center;gap:8px;font-size:13px;line-height:16px;font-weight:600;letter-spacing:.08em;color:var(--muted)}
+.cap{display:flex;align-items:center;gap:8px;font-size: 14px;line-height:16px;font-weight:600;letter-spacing:.08em;color:var(--muted)}
 </style>
 <div class="t-auto" style="position: relative; width: 1600px; height: 1000px; overflow: hidden; background: var(--bg); color: var(--ink); font-family: 'IBM Plex Sans', system-ui, sans-serif">
 
